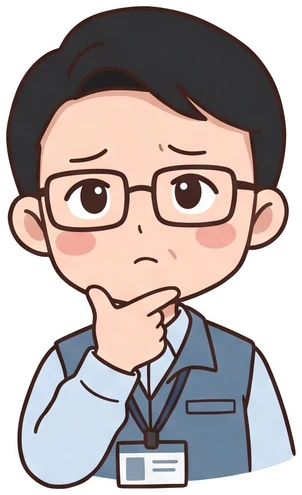
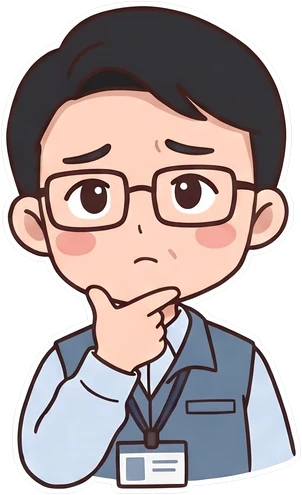
Props: tin, envelopes, ward signs, notice fixes; Matsumoto think face
Claude-Session: https://claude.ai/code/session_01ERzodyXY4NGG79AwRziZtV

diff --git a/shared/style.css b/shared/style.css
@@ -462,7 +462,7 @@ ruby{ruby-position:over;ruby-align:center}rt{font-size:.62em;font-weight:400;let
 
 /* ---------- Kamome House props (quests/props.js): drawn objects, each Japanese line a tappable button ---------- */
 .propwrap{display:grid;gap:8px}
-.prop{--hand:"Klee One","Yu Kyokasho","Hiragino Maru Gothic ProN",cursive;--print:"Shippori Mincho","Hiragino Mincho ProN","Yu Mincho",serif;display:flex;justify-content:center;padding:14px 4px;color:#2b211b}
+.prop{--fumiko:"Zen Kurenaido","Klee One",cursive;--hand:"Klee One","Yu Kyokasho","Hiragino Maru Gothic ProN",cursive;--print:"Shippori Mincho","Hiragino Mincho ProN","Yu Mincho",serif;display:flex;justify-content:center;padding:14px 4px;color:#2b211b}
 .prop .pl{all:unset;box-sizing:border-box;display:block;cursor:pointer;border-radius:6px;padding:2px 6px;margin:1px -6px;line-height:1.5;outline-offset:2px;transition:background .15s, box-shadow .15s}
 .prop .pl:hover{background:rgba(255,214,90,.28)}
 .prop .pl:focus-visible{outline:3px solid var(--lupine)}
@@ -481,28 +481,32 @@ ruby{ruby-position:over;ruby-align:center}rt{font-size:.62em;font-weight:400;let
 .paper .beach{width:100%;height:34px}
 .prop-notice .pl0{font:800 1.55rem/1.3 var(--print);letter-spacing:.04em;color:#1e5f74}
 .prop-notice .when{display:grid;gap:0;font-size:1.15rem;font-weight:700}
-.prop-notice .pl3{justify-self:center;border:2px solid #c8352b!important;color:#b02c22;font-weight:700;padding:2px 12px;margin:4px 0}
-.prop-notice .pl4{font:600 1.15rem var(--hand);color:#5f5a55;transform:rotate(-3deg);justify-self:end;margin-top:6px}
-/* the cookie tin and the airmail bundle */
-.tinscene{display:grid;gap:14px;justify-items:center;width:min(100%,420px)}
-.tinlid{width:min(100%,300px);aspect-ratio:1.35;border-radius:22px;background:radial-gradient(ellipse at 30% 25%,#e9f1f6,#a8c0cf 45%,#6d8a9c);padding:14px;box-shadow:inset 0 0 0 4px #8aa3b2,inset 0 0 0 8px #c9d9e2,var(--shadow)}
-.tinin{height:100%;border-radius:12px;background:#f3ecdc;display:grid;place-content:center;justify-items:center;box-shadow:inset 0 2px 6px rgba(0,0,0,.25)}
-.prop-tin .pl0{font:600 2.6rem/1.1 var(--hand);color:#262626;writing-mode:vertical-rl;padding:6px 4px;margin:0}
-.bundle{display:grid;gap:14px;width:100%}
-.env{position:relative;background:#e4f0f8;border-radius:4px;box-shadow:0 2px 6px rgba(0,0,0,.2)}
+.prop-notice .pl3{justify-self:center;border:2px solid #c8352b!important;color:#b02c22;font-weight:700;padding:14px 14px 4px;margin:4px 0;line-height:1.3}
+.prop-notice .pl4{font:400 1.3rem var(--fumiko);color:#5f5a55;transform:rotate(-3deg);justify-self:end;margin-top:6px}
+/* the cookie tin and the airmail letters */
+.tinscene{display:grid;gap:14px;width:min(100%,440px)}
+.lids{display:grid;grid-template-columns:1fr 1fr;gap:12px;align-items:center}
+.lids figure{margin:0;display:grid;gap:4px;justify-items:center}
+.lidtop svg{width:100%;height:auto;filter:drop-shadow(0 3px 5px rgba(0,0,0,.25))}
+.tinlid{width:100%;aspect-ratio:200/150;border-radius:14%/18%;background:radial-gradient(ellipse at 30% 25%,#f1f5f8,#b7c6d0 55%,#8197a5);padding:7%;box-shadow:inset 0 0 0 3px #8aa3b2,0 3px 6px rgba(0,0,0,.25)}
+.tinin{height:100%;border-radius:10px;background:#efe8d8;display:grid;place-content:center;justify-items:center;box-shadow:inset 0 2px 5px rgba(0,0,0,.2)}
+.tinin .cap{margin:0}
+.prop-tin .pl0{font:400 2.4rem/1.05 var(--fumiko);color:#222;writing-mode:vertical-rl;padding:4px;margin:0}
+.env{position:relative;background:#e4f0f8;border-radius:3px;box-shadow:0 2px 6px rgba(0,0,0,.2)}
 .env.air{border:7px solid transparent;border-image:repeating-linear-gradient(45deg,#d33a3a 0 10px,#fff 10px 20px,#2c5aa8 20px 30px,#fff 30px 40px) 7}
-.prop-tin .env.air{padding:12px 14px 14px;min-height:130px}
+.prop-tin .env{aspect-ratio:16/9;overflow:hidden}
 .env .avion{position:absolute;left:10px;top:8px;font:700 9px/1.25 var(--mono);color:#2c5aa8;border:1.5px solid #2c5aa8;padding:2px 4px}
 .env .stamp{position:absolute;right:10px;top:8px;width:42px;height:50px;background:#f6d77a;border:3px dotted #fff;outline:1px solid #c9a94a;display:grid;place-items:end center}
 .env .stamp i{font:700 6px var(--mono);font-style:normal;color:#7a5a12;padding-bottom:3px}
 .env .stamp::before{content:"";position:absolute;inset:8px 9px 14px;border-radius:50% 50% 40% 40%;background:#d08a35}
-.env .en-addr{display:block;margin:40px 0 4px 18%;font:600 .95rem/1.35 var(--hand);color:#30425e}
-.prop-tin .env.air .pl1{margin-left:18%;font:600 1.2rem var(--hand);color:#30425e}
-.env .string{position:absolute;left:62%;top:-7px;bottom:-7px;width:3px;background:#efe6d2;box-shadow:0 0 0 1px #c9b98f}
-.env.backside{background:#dfeaf3;min-height:110px;display:grid;place-items:end center;padding-bottom:12px!important}
-.env.backside .flap{position:absolute;inset:0 0 40% 0;background:linear-gradient(to bottom right,transparent 49.5%,#b7c9d6 50%,transparent 51%) left/50% 100% no-repeat,linear-gradient(to bottom left,transparent 49.5%,#b7c9d6 50%,transparent 51%) right/50% 100% no-repeat}
-.env.backside .cap{position:absolute;left:10px;top:8px}
-.prop-tin .pl2{font:600 1.1rem var(--hand);color:#6b6560;position:relative}
+.env .en-addr{display:block;margin:0 0 4px;font:600 .95rem/1.35 var(--hand);color:#30425e}
+.prop-tin .env .addr{position:absolute;left:22%;top:42%}
+.prop-tin .env .pl1{font:600 1.2rem var(--hand);color:#30425e}
+.env.back{background:#dbe8f2}
+.env.back .flap{position:absolute;left:0;right:0;top:0;height:55%;background:#cfdfeb;clip-path:polygon(0 0,100% 0,50% 100%);filter:drop-shadow(0 1px 0 #a9bfcf)}
+.env.back::after{content:"";position:absolute;inset:0;background:linear-gradient(to top right,transparent 49.6%,#b9cddc 50%,transparent 50.4%) left bottom/50% 60% no-repeat,linear-gradient(to top left,transparent 49.6%,#b9cddc 50%,transparent 50.4%) right bottom/50% 60% no-repeat;pointer-events:none}
+.env.back .cap{position:absolute;left:10px;bottom:6px;z-index:1}
+.prop-tin .env.back .pl2{position:absolute;left:50%;top:62%;transform:translateX(-50%);font:400 1.25rem var(--fumiko);color:#5f5a55;white-space:nowrap;z-index:1}
 /* festival poster */
 .poster{width:min(100%,380px);background:linear-gradient(#18264a,#2c3f73 70%,#3d4f86);color:#fff;border-radius:6px;padding:4px 18px 18px;display:grid;gap:8px;text-align:center;box-shadow:var(--shadow);position:relative;overflow:hidden}
 .poster .lanterns{width:calc(100% + 36px);margin:0 -18px;height:46px}
@@ -546,18 +550,27 @@ ruby{ruby-position:over;ruby-align:center}rt{font-size:.62em;font-weight:400;let
 .lrow{border-bottom:1px solid #b89a63;padding:4px 8px;font-size:1.1rem}.lrow:last-child{border-bottom:0}
 .ledger .pencil{font-family:var(--hand);color:#6e6a66;font-size:.9em}
 .ledger .seal{position:absolute;right:14px;bottom:8px;width:34px;height:34px;border:2.5px solid #c0392b;border-radius:50%;opacity:.55;transform:rotate(-12deg)}
-/* hospital ward */
-.ward{width:min(100%,440px);display:grid;gap:12px;background:#e9eef0;border-radius:10px;padding:14px;box-shadow:inset 0 0 0 1px #cfd8dc}
-.wsign{background:#2f7d64;color:#fff;border-radius:6px;padding:6px 12px;text-align:center;box-shadow:0 2px 4px rgba(0,0,0,.2)}
-.prop-ward .wsign .pl{font-weight:800;font-size:1.25rem;letter-spacing:.1em}
-.prop-ward .wsign .pl:hover,.prop-ward .wsign .pl.sel{background:rgba(255,255,255,.2)}
-.wboard{background:#fff;border:2px solid #9fb0b6;border-radius:6px;padding:6px 10px;display:flex;align-items:center;gap:8px;font-weight:700;font-size:1.05rem}
-.wboard svg{width:22px;height:22px;color:#2f7d64;flex:none}
+/* hospital ward: a sign hung from the ceiling, a wall plaque, the card on his bed and his chart */
+.ward{width:min(100%,440px);display:grid;background:#eef2f3;border-radius:8px;box-shadow:inset 0 0 0 1px #cfd8dc;overflow:hidden}
+.ward .ceil{height:12px;background:repeating-linear-gradient(90deg,#dfe5e8 0 38px,#cdd5d9 38px 40px);border-bottom:1px solid #c3ccd1}
+.hang{position:relative;padding:22px 18px 4px;display:grid}
+.hang .rod{position:absolute;top:0;width:2px;height:22px;background:#9aa4aa}.hang .rod:first-child{left:22%}.hang .rod:nth-child(2){right:22%}
+.wsign{display:flex;align-items:stretch;background:#fff;border-radius:4px;box-shadow:0 3px 6px rgba(0,0,0,.18),inset 0 0 0 1px #d4dadd;overflow:hidden}
+.wband{background:#2f7d64;display:grid;place-items:center;padding:0 10px}.wband svg{width:30px;height:30px}
+.wtxt{display:grid;padding:6px 12px}
+.prop-ward .wsign .pl0{font-weight:800;font-size:1.3rem;letter-spacing:.12em;color:#1d3b33}
+.wen{display:block;font:600 11px var(--body);letter-spacing:.04em;color:#6b7b80}
+.wall{padding:14px 16px 16px;display:grid;gap:14px;background:linear-gradient(#eef2f3,#e6ecee)}
+.plaque{position:relative;display:flex;align-items:center;gap:10px;background:linear-gradient(#fdfefe,#eef3f4);border:1px solid #c5d0d4;border-radius:6px;padding:10px 14px;box-shadow:0 2px 3px rgba(0,0,0,.12)}
+.plaque .scr{position:absolute;width:5px;height:5px;border-radius:50%;background:#b5bfc4}.plaque .scr:nth-child(1){left:5px;top:5px}.plaque .scr:nth-child(2){right:5px;top:5px}.plaque .scr:nth-child(3){left:5px;bottom:5px}.plaque .scr:nth-child(4){right:5px;bottom:5px}
+.plaque svg{width:24px;height:24px;color:#2f7d64;flex:none}
+.prop-ward .plaque .pl1{font-weight:800;font-size:1.08rem;color:#1d3b33}
 .wbed{display:grid;grid-template-columns:1fr 1fr;gap:12px;align-items:start}
-.bedcard{background:#ffd84a;border:2px solid #2b2b2b;border-radius:4px;padding:8px;display:grid;justify-items:center;gap:2px;font-weight:800;font-size:1.15rem}
-.bedcard svg{width:42px;height:42px;color:#2b2b2b}
+.bedcard{background:#ffd84a;border:3px solid #222;border-radius:6px;padding:8px 6px 6px;display:grid;justify-items:center;gap:2px;font-weight:800;font-size:1.15rem;box-shadow:0 2px 4px rgba(0,0,0,.2)}
+.bedcard svg{width:72px;height:63px}
 .clip{background:#fff;border:1px solid #bbb;border-radius:4px;padding:18px 8px 10px;position:relative;font-size:.98rem;font-weight:700;box-shadow:0 2px 4px rgba(0,0,0,.15)}
 .clip .clipt{position:absolute;left:50%;top:-6px;width:44px;height:14px;margin-left:-22px;background:linear-gradient(#c9ccd0,#8e9399);border-radius:4px}
+.clip .cap{margin-bottom:2px}
 /* the returned envelope */
 .prop-envelope .env.big{width:min(100%,460px);min-height:250px;padding:12px}
 .prop-envelope .addr{margin:58px 0 0 16%}
@@ -570,4 +583,8 @@ ruby{ruby-position:over;ruby-align:center}rt{font-size:.62em;font-weight:400;let
 .pstamp .inconnu{position:absolute;right:-6px;bottom:-16px;font:700 9px var(--mono);background:#fff;border:1px solid #888;color:#333;padding:0 4px;transform:rotate(6deg)}
 .pstamp.hand{display:flex;align-items:center;gap:4px;color:#b02c22;border:2px solid #b02c22;border-radius:4px;padding:2px 8px 2px 4px;font-weight:800;font-size:1.05rem;transform:rotate(3deg);width:max-content;margin-top:16px}
 .pstamp .fing{font-size:1.4rem;line-height:1}
-@media (max-width:420px){.prop-poster .pl0{font-size:1.65rem}.prop-tin .pl0{font-size:2.2rem}.wbed{grid-template-columns:1fr}}
+@media (max-width:420px){.prop-poster .pl0{font-size:1.65rem}.prop-tin .pl0{font-size:2rem}.prop-tin .env .pl1{font-size:1.05rem}}
+.prop .lids figure{background:none;border:0;padding:0;box-shadow:none;border-radius:0}
+.prop .tinin{width:100%;padding:4px}
+.prop .tinin .cap{font-size:9px;text-align:center}
+.prop .lids figure.tinlid{background:radial-gradient(ellipse at 30% 25%,#f1f5f8,#b7c6d0 55%,#8197a5);padding:7%;border-radius:14%/18%;box-shadow:inset 0 0 0 3px #8aa3b2,0 3px 6px rgba(0,0,0,.25);display:block}

diff --git a/quests/props.js b/quests/props.js
@@ -5,6 +5,18 @@
 "use strict";
 var P = {};
 var SW = '<svg class="swallow" viewBox="0 0 60 30" aria-hidden="true"><path d="M30 14c-6-8-16-12-29-11 9 3 15 7 19 13-6 1-11 4-14 9 7-3 13-4 19-3l5 6 5-6c6-1 12 0 19 3-3-5-8-8-14-9 4-6 10-10 19-13-13-1-23 3-29 11z" fill="currentColor"/></svg>';
+function flower(x, y){ var h = '<g transform="translate(' + x + ' ' + y + ')">'; for (var a = 0; a < 5; a++){ var r = a * 72 * Math.PI / 180; h += '<circle cx="' + (4.2 * Math.sin(r)).toFixed(1) + '" cy="' + (-4.2 * Math.cos(r)).toFixed(1) + '" r="3.2" fill="#f2d27a"/>'; } return h + '<circle r="2.4" fill="#c8453a"/></g>'; }
+var LID = '<svg viewBox="0 0 200 150" aria-hidden="true"><defs><clipPath id="lidov"><ellipse cx="100" cy="75" rx="58" ry="41"/></clipPath><linearGradient id="lidsky" x1="0" y1="0" x2="0" y2="1"><stop offset="0" stop-color="#f7e3b8"/><stop offset="1" stop-color="#fbf3df"/></linearGradient></defs>' +
+  '<rect x="2" y="2" width="196" height="146" rx="18" fill="#1f3a68"/><rect x="2" y="2" width="196" height="146" rx="18" fill="none" stroke="#14284a" stroke-width="3"/>' +
+  '<rect x="9" y="9" width="182" height="132" rx="13" fill="none" stroke="#d9b65a" stroke-width="2"/><rect x="14" y="14" width="172" height="122" rx="10" fill="none" stroke="#d9b65a" stroke-width="1" stroke-dasharray="1.5 3.5" stroke-linecap="round"/>' +
+  flower(28, 28) + flower(172, 28) + flower(28, 122) + flower(172, 122) +
+  (function(){ var d = ""; for (var i = 0; i < 28; i++){ var t = i / 28 * 2 * Math.PI; d += '<circle cx="' + (100 + 67 * Math.cos(t)).toFixed(1) + '" cy="' + (75 + 49 * Math.sin(t)).toFixed(1) + '" r="1.6" fill="#d9b65a"/>'; } return d; })() +
+  '<ellipse cx="100" cy="75" rx="62" ry="45" fill="#d9b65a"/><g clip-path="url(#lidov)"><rect x="30" y="30" width="140" height="90" fill="url(#lidsky)"/><circle cx="72" cy="58" r="9" fill="#f0a24a" opacity=".85"/>' +
+  '<path d="M30 84c12-4 22-4 34 0s22 4 34 0 22-4 34 0 22 4 38 0V120H30z" fill="#4d7fab"/><path d="M30 94c14-3 26-3 38 0s24 3 36 0 26-3 38 0 20 3 28 1V120H30z" fill="#2f5f8f"/>' +
+  '<path d="M112 92l4-10h22l6 10z" fill="#6b5a48"/><path d="M121 82l2-28h7l2 28z" fill="#fbfaf5" stroke="#3b3b3b" stroke-width=".8"/><path d="M122.3 72h9.4l.5 6h-10.4zM123 61h8l.4 5h-8.8z" fill="#c8453a"/><rect x="121.5" y="48" width="10" height="6" fill="#3b3b3b"/><rect x="123" y="49.5" width="7" height="3.5" fill="#ffe59a"/><path d="M120 48l6.5-5 6.5 5z" fill="#c8453a"/>' +
+  '<path d="M84 50q3-3 6 0q3-3 6 0M146 60q2.5-2.5 5 0q2.5-2.5 5 0M95 64q2-2 4 0q2-2 4 0" fill="none" stroke="#2b2b2b" stroke-width="1.3" stroke-linecap="round"/></g>' +
+  '<ellipse cx="100" cy="75" rx="58" ry="41" fill="none" stroke="#b8923a" stroke-width="1.5"/></svg>';
+var SLIP = '<svg viewBox="0 0 64 56" aria-hidden="true"><g fill="none" stroke="#222" stroke-linecap="round" stroke-linejoin="round"><path d="M8 50h48" stroke-width="2.5"/><path d="M29 33 19 19" stroke-width="6"/><path d="M29 33l12 4 11-6M29 33l-3 9 5 7" stroke-width="5"/><path d="M20 20l-8 7M20 20l7-7" stroke-width="4"/><path d="M50 24l4-4M54 27l5-1M45 45h9M40 48h5" stroke-width="1.6"/></g><circle cx="13" cy="12" r="5" fill="#222"/></svg>';
 var WARN = '<svg viewBox="0 0 24 24" aria-hidden="true"><path d="M12 3 2 21h20z" fill="currentColor"/><path d="M12 9v6M12 17.5v.5" stroke="#fff" stroke-width="2.2" stroke-linecap="round"/></svg>';
 
 P.html = function(p, i, md, esc){
@@ -19,9 +31,10 @@ P.html = function(p, i, md, esc){
     '<svg class="beach" viewBox="0 0 200 40" aria-hidden="true"><path d="M0 26c20-8 40-8 60 0s40 8 60 0 40-8 60 0 20 4 20 4V40H0z" fill="#9fd0d6"/><path d="M0 33c25-5 50-5 75 0s50 5 75 0 50-4 50-4V40H0z" fill="#ecd9a8"/><circle cx="170" cy="11" r="7" fill="#f0b64a"/></svg>' +
     B[0] + '<div class="when">' + B[1] + B[2] + '</div>' + B[3] + B[4] + '</div></div>';
   else if (L === "tin") h =
-    '<div class="tinscene"><div class="tinlid"><div class="tinin"><span class="cap">inside the lid</span>' + B[0] + '</div></div>' +
-    '<div class="bundle"><div class="env air"><span class="avion">BY AIR MAIL<br>PAR AVION</span><span class="stamp au"><i>AUSTRALIA</i></span><span class="en-addr">126 Kawaminami<br>Shioura, JAPAN</span>' + B[1] + '<i class="string"></i></div>' +
-    '<div class="env air backside"><span class="cap">back of the top envelope</span><i class="flap"></i>' + B[2] + '</div></div></div>';
+    '<div class="tinscene"><div class="lids"><figure class="lidtop">' + LID + '<figcaption class="cap">the lid</figcaption></figure>' +
+    '<figure class="tinlid"><div class="tinin"><span class="cap">inside the lid</span>' + B[0] + '</div></figure></div>' +
+    '<div class="env air front"><span class="avion">BY AIR MAIL<br>PAR AVION</span><span class="stamp au"><i>AUSTRALIA</i></span><div class="addr"><span class="en-addr">126 Kawaminami<br>Shioura, JAPAN</span>' + B[1] + '</div></div>' +
+    '<div class="env air back"><span class="cap">back of the top envelope</span><i class="flap"></i>' + B[2] + '</div></div>';
   else if (L === "poster") h =
     '<div class="poster"><svg class="lanterns" viewBox="0 0 300 46" preserveAspectRatio="none" aria-hidden="true"><path d="M0 6Q75 26 150 8T300 6" fill="none" stroke="#2b2b2b" stroke-width="1.5"/>' +
     [30, 80, 130, 180, 230, 275].map(function(x, j){ var y = 13 + (j % 2 ? 4 : 0); return '<g transform="translate(' + x + ' ' + y + ')"><rect x="-2" y="-2" width="4" height="4" fill="#2b2b2b"/><ellipse cx="0" cy="13" rx="9" ry="12" fill="#e2483a"/><path d="M-8 9h16M-8 17h16" stroke="#b5302a" stroke-width="1"/><rect x="-4" y="24" width="8" height="3" fill="#2b2b2b"/></g>'; }).join("") + '</svg>' +
@@ -41,8 +54,9 @@ P.html = function(p, i, md, esc){
   else if (L === "ledger") h =
     '<div class="ledger"><div class="lhead">' + B[0] + '</div><div class="lsub">' + B[1] + '</div><div class="lrows">' + B.slice(2).map(function(b){ return '<div class="lrow">' + b + '</div>'; }).join("") + '</div><i class="seal"></i></div>';
   else if (L === "ward") h =
-    '<div class="ward"><div class="wsign">' + B[0] + '</div><div class="wboard"><svg viewBox="0 0 24 24" aria-hidden="true"><circle cx="12" cy="12" r="10" fill="none" stroke="currentColor" stroke-width="2"/><path d="M12 6v6l4 3" stroke="currentColor" stroke-width="2" fill="none" stroke-linecap="round"/></svg>' + B[1] + '</div>' +
-    '<div class="wbed"><div class="bedcard"><svg viewBox="0 0 40 40" aria-hidden="true"><circle cx="22" cy="7" r="4" fill="currentColor"/><path d="M20 12 14 24l-8 2M20 12l8 9 6-3M17 18l5 9-4 10M22 27l9 4" stroke="currentColor" stroke-width="3.2" fill="none" stroke-linecap="round" stroke-linejoin="round"/><path d="M2 38h36" stroke="currentColor" stroke-width="2"/></svg>' + B[2] + '</div><div class="clip"><i class="clipt"></i>' + B[3] + '</div></div></div>';
+    '<div class="ward"><div class="ceil"></div><div class="hang"><i class="rod"></i><i class="rod"></i><div class="wsign"><span class="wband"><svg viewBox="0 0 24 24" aria-hidden="true"><path d="M3 18V7M3 14h18v4M21 14v-2a3 3 0 0 0-3-3h-7v5" fill="none" stroke="#fff" stroke-width="2" stroke-linecap="round" stroke-linejoin="round"/><circle cx="7" cy="11" r="2" fill="#fff"/></svg></span><span class="wtxt">' + B[0] + '<span class="wen">Orthopedics Ward</span></span></div></div>' +
+    '<div class="wall"><div class="plaque"><i class="scr"></i><i class="scr"></i><i class="scr"></i><i class="scr"></i><svg viewBox="0 0 24 24" aria-hidden="true"><circle cx="12" cy="12" r="10" fill="none" stroke="currentColor" stroke-width="2"/><path d="M12 6v6l4 3" stroke="currentColor" stroke-width="2" fill="none" stroke-linecap="round"/></svg><span>' + B[1] + '<span class="wen">Visiting hours</span></span></div>' +
+    '<div class="wbed"><div class="bedcard">' + SLIP + B[2] + '</div><div class="clip"><i class="clipt"></i><span class="cap">his chart</span>' + B[3] + '</div></div></div></div>';
   else if (L === "envelope") h =
     '<div class="env air big"><span class="avion">PAR AVION</span><span class="stamp au"><i>AUSTRALIA</i></span><span class="pmark">' + B[3] + '</span>' +
     '<div class="addr"><span class="en-addr">Miss Fumiko Murai<br>126 Kawaminami<br>Shioura, JAPAN</span>' + B[0] + '</div>' +

diff --git a/quests/index.html b/quests/index.html
@@ -13,13 +13,13 @@
 <meta name="apple-mobile-web-app-capable" content="yes">
 <link rel="preconnect" href="https://fonts.googleapis.com">
 <link rel="preconnect" href="https://fonts.gstatic.com" crossorigin>
-<link href="https://fonts.googleapis.com/css2?family=Bricolage+Grotesque:opsz,wght@12..96,600;12..96,800&family=Atkinson+Hyperlegible:wght@400;700&family=JetBrains+Mono:wght@400;600&family=Klee+One:wght@600&family=Shippori+Mincho:wght@600;800&display=swap" rel="stylesheet">
-<link rel="stylesheet" href="../shared/style.css?v=44">
+<link href="https://fonts.googleapis.com/css2?family=Bricolage+Grotesque:opsz,wght@12..96,600;12..96,800&family=Atkinson+Hyperlegible:wght@400;700&family=JetBrains+Mono:wght@400;600&family=Klee+One:wght@600&family=Zen+Kurenaido&family=Shippori+Mincho:wght@600;800&display=swap" rel="stylesheet">
+<link rel="stylesheet" href="../shared/style.css?v=45">
 <script src="../shared/catalog.js"></script>
-<script src="../shared/engine.js?v=44"></script>
-<script src="props.js?v=44"></script>
-<script src="../data/story.js?v=44"></script>
-<script src="../data/story-audio.js?v=44"></script>
+<script src="../shared/engine.js?v=45"></script>
+<script src="props.js?v=45"></script>
+<script src="../data/story.js?v=45"></script>
+<script src="../data/story-audio.js?v=45"></script>
 <style>
 .lhead{display:grid;gap:8px}
 .goals{margin:0;padding-left:20px;color:var(--soft);font-size:.94em}

diff --git a/forge/index.html b/forge/index.html
@@ -14,9 +14,9 @@
 <link rel="preconnect" href="https://fonts.googleapis.com">
 <link rel="preconnect" href="https://fonts.gstatic.com" crossorigin>
 <link href="https://fonts.googleapis.com/css2?family=Bricolage+Grotesque:opsz,wght@12..96,600;12..96,800&family=Atkinson+Hyperlegible:wght@400;700&family=JetBrains+Mono:wght@400;600&display=swap" rel="stylesheet">
-<link rel="stylesheet" href="../shared/style.css?v=44">
+<link rel="stylesheet" href="../shared/style.css?v=45">
 <script src="../shared/catalog.js"></script>
-<script src="../shared/engine.js?v=44"></script>
+<script src="../shared/engine.js?v=45"></script>
 <style>
 .kinds{display:grid;grid-template-columns:repeat(auto-fit,minmax(150px,1fr));gap:8px}
 .kind{display:grid;gap:4px;text-align:left;background:var(--panel);border:1.5px solid var(--line);border-radius:14px;padding:12px;color:var(--ink)}

diff --git a/index.html b/index.html
@@ -15,9 +15,9 @@
 <link rel="preconnect" href="https://fonts.googleapis.com">
 <link rel="preconnect" href="https://fonts.gstatic.com" crossorigin>
 <link href="https://fonts.googleapis.com/css2?family=Bricolage+Grotesque:opsz,wght@12..96,600;12..96,800&family=Atkinson+Hyperlegible:wght@400;700&family=JetBrains+Mono:wght@400;600&family=Comic+Relief:wght@400;700&display=swap" rel="stylesheet">
-<link rel="stylesheet" href="shared/style.css?v=44">
+<link rel="stylesheet" href="shared/style.css?v=45">
 <script src="shared/catalog.js"></script>
-<script src="shared/engine.js?v=44"></script>
+<script src="shared/engine.js?v=45"></script>
 <style>
 /* The hub: a top-down study desk. Every object is a link to an app. */
 .hubhead{display:flex;justify-content:space-between;align-items:flex-end;gap:12px;flex-wrap:wrap;padding-top:10px}

diff --git a/codex/index.html b/codex/index.html
@@ -14,9 +14,9 @@
 <link rel="preconnect" href="https://fonts.googleapis.com">
 <link rel="preconnect" href="https://fonts.gstatic.com" crossorigin>
 <link href="https://fonts.googleapis.com/css2?family=Bricolage+Grotesque:opsz,wght@12..96,600;12..96,800&family=Atkinson+Hyperlegible:wght@400;700&family=JetBrains+Mono:wght@400;600&display=swap" rel="stylesheet">
-<link rel="stylesheet" href="../shared/style.css?v=44">
+<link rel="stylesheet" href="../shared/style.css?v=45">
 <script src="../shared/catalog.js"></script>
-<script src="../shared/engine.js?v=44"></script>
+<script src="../shared/engine.js?v=45"></script>
 <style>
 .search{position:sticky;top:calc(61px + env(safe-area-inset-top,0px));z-index:10;background:var(--bg);padding:8px 0 10px;display:grid;gap:8px}
 .entries{display:grid;gap:8px}

diff --git a/arcade/index.html b/arcade/index.html
@@ -14,9 +14,9 @@
 <link rel="preconnect" href="https://fonts.googleapis.com">
 <link rel="preconnect" href="https://fonts.gstatic.com" crossorigin>
 <link href="https://fonts.googleapis.com/css2?family=Bricolage+Grotesque:opsz,wght@12..96,600;12..96,800&family=Atkinson+Hyperlegible:wght@400;700&family=JetBrains+Mono:wght@400;600&family=Silkscreen:wght@400;700&display=swap" rel="stylesheet">
-<link rel="stylesheet" href="../shared/style.css?v=44">
+<link rel="stylesheet" href="../shared/style.css?v=45">
 <script src="../shared/catalog.js"></script>
-<script src="../shared/engine.js?v=44"></script>
+<script src="../shared/engine.js?v=45"></script>
 <script src="../shared/kanjilab.js"></script>
 <script src="../shared/jpgames.js"></script>
 <script src="../shared/arcadefx.js"></script>

diff --git a/labs/formula.html b/labs/formula.html
@@ -14,8 +14,8 @@
 <link rel="preconnect" href="https://fonts.googleapis.com">
 <link rel="preconnect" href="https://fonts.gstatic.com" crossorigin>
 <link href="https://fonts.googleapis.com/css2?family=Bricolage+Grotesque:opsz,wght@12..96,600;12..96,800&family=Atkinson+Hyperlegible:wght@400;700&family=JetBrains+Mono:wght@400;600&display=swap" rel="stylesheet">
-<link rel="stylesheet" href="../shared/style.css?v=44">
-<script src="../shared/engine.js?v=44"></script>
+<link rel="stylesheet" href="../shared/style.css?v=45">
+<script src="../shared/engine.js?v=45"></script>
 <script src="../shared/formula.js"></script>
 <script src="../shared/formulalab.js"></script>
 <script src="../data/lab-formula.js"></script>

diff --git a/labs/index.html b/labs/index.html
@@ -14,8 +14,8 @@
 <link rel="preconnect" href="https://fonts.googleapis.com">
 <link rel="preconnect" href="https://fonts.gstatic.com" crossorigin>
 <link href="https://fonts.googleapis.com/css2?family=Bricolage+Grotesque:opsz,wght@12..96,600;12..96,800&family=Atkinson+Hyperlegible:wght@400;700&family=JetBrains+Mono:wght@400;600&display=swap" rel="stylesheet">
-<link rel="stylesheet" href="../shared/style.css?v=44">
-<script src="../shared/engine.js?v=44"></script>
+<link rel="stylesheet" href="../shared/style.css?v=45">
+<script src="../shared/engine.js?v=45"></script>
 <script src="../data/lab-formula.js"></script>
 <script src="../data/lab-web.js"></script>
 <script src="../data/lab-python.js"></script>

diff --git a/labs/data.html b/labs/data.html
@@ -14,8 +14,8 @@
 <link rel="preconnect" href="https://fonts.googleapis.com">
 <link rel="preconnect" href="https://fonts.gstatic.com" crossorigin>
 <link href="https://fonts.googleapis.com/css2?family=Bricolage+Grotesque:opsz,wght@12..96,600;12..96,800&family=Atkinson+Hyperlegible:wght@400;700&family=JetBrains+Mono:wght@400;600&display=swap" rel="stylesheet">
-<link rel="stylesheet" href="../shared/style.css?v=44">
-<script src="../shared/engine.js?v=44"></script>
+<link rel="stylesheet" href="../shared/style.css?v=45">
+<script src="../shared/engine.js?v=45"></script>
 <script src="../shared/catalog.js"></script>
 <script src="../shared/datalab.js"></script>
 <script src="../data/lab-data.js"></script>

diff --git a/labs/kanji.html b/labs/kanji.html
@@ -14,8 +14,8 @@
 <link rel="preconnect" href="https://fonts.googleapis.com">
 <link rel="preconnect" href="https://fonts.gstatic.com" crossorigin>
 <link href="https://fonts.googleapis.com/css2?family=Bricolage+Grotesque:opsz,wght@12..96,600;12..96,800&family=Atkinson+Hyperlegible:wght@400;700&family=JetBrains+Mono:wght@400;600&display=swap" rel="stylesheet">
-<link rel="stylesheet" href="../shared/style.css?v=44">
-<script src="../shared/engine.js?v=44"></script>
+<link rel="stylesheet" href="../shared/style.css?v=45">
+<script src="../shared/engine.js?v=45"></script>
 <script src="../shared/kanjilab.js"></script>
 <script src="../data/lab-kanji.js"></script>
 <style>

diff --git a/labs/cite.html b/labs/cite.html
@@ -14,8 +14,8 @@
 <link rel="preconnect" href="https://fonts.googleapis.com">
 <link rel="preconnect" href="https://fonts.gstatic.com" crossorigin>
 <link href="https://fonts.googleapis.com/css2?family=Bricolage+Grotesque:opsz,wght@12..96,600;12..96,800&family=Atkinson+Hyperlegible:wght@400;700&family=JetBrains+Mono:wght@400;600&display=swap" rel="stylesheet">
-<link rel="stylesheet" href="../shared/style.css?v=44">
-<script src="../shared/engine.js?v=44"></script>
+<link rel="stylesheet" href="../shared/style.css?v=45">
+<script src="../shared/engine.js?v=45"></script>
 <script src="../shared/citelab.js"></script>
 <script src="../data/lab-cite.js"></script>
 <style>
